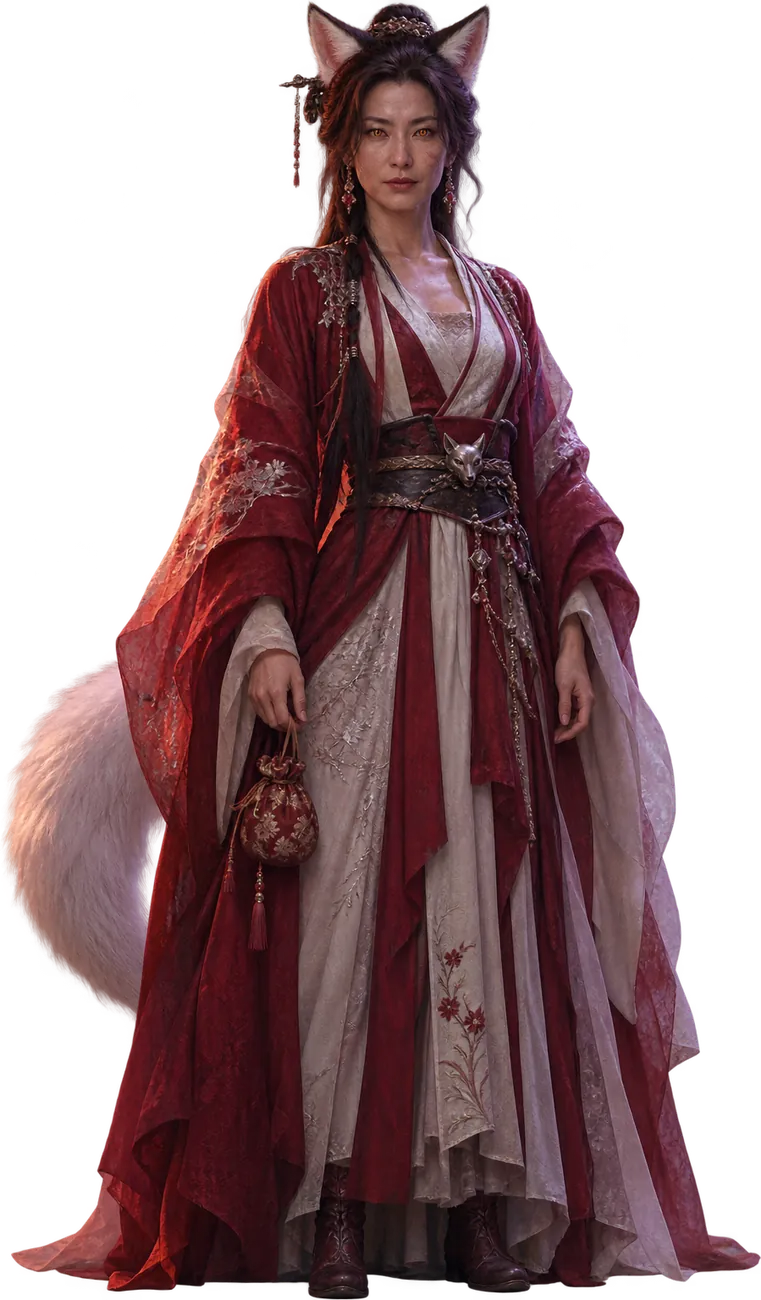
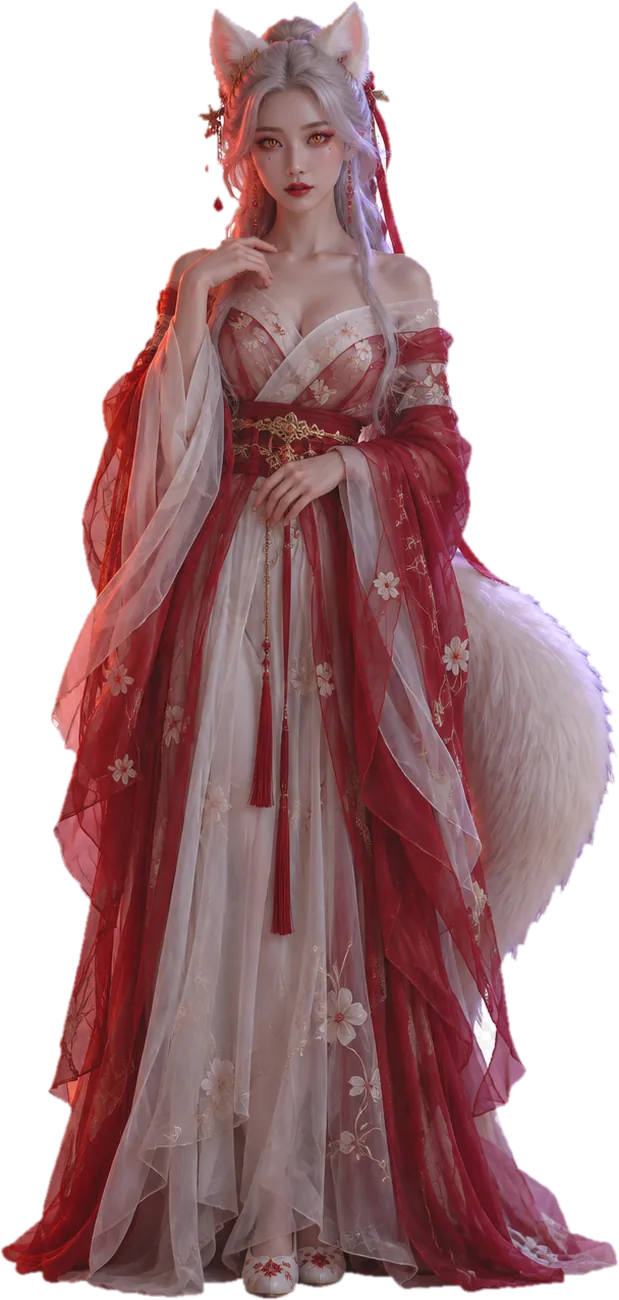
重画狐妖第二张面孔 yao_fox_f1：年轻、勾人，照小说里的狐妖
原图套用了替换面孔的通用说明（明显更老 35–45 岁、饱经风霜、胡茬或伤疤），
狐妖画成了中年妇人。妖修驻颜有术，该看上去年轻。

- specs.py：FACE_OVERRIDE 给 yao_fox_f1 单写一条：二十出头的成年女子，银白长发，
  眼尾上挑、红唇，罗衫半落香肩，雅致不露骨；银发与白绡、yao_fox_f2 的黑发区分开
- 重画底图与六种神态共 7 张（神态以底图为参考改图，保持同一人）
- 用这张脸的：白绡的姐姐青绡（剧情），以及一部分路人狐妖

diff --git a/tools/art/specs.py b/tools/art/specs.py
@@ -180,6 +180,12 @@ FACE_OVERRIDE = {
     'ren_kid_f1': 'cast a different teenage boy actor (about 15) for the same servant role: thinner, shaved head with a cloth headband, freckles, different pose',
     'ren_kid_f2': 'cast a different teenage boy actor (about 13) for the same servant role: chubby round face, messy topknot, different pose',
     'noble_f2': 'cast an actress instead: an arrogant young noblewoman of the demonic sect, contemptuous half-lidded eyes, chin raised, ornate dark purple and gold robes, jade-and-gold hair ornaments, holding a round silk fan',
+    # 妖修驻颜有术，看上去总是年轻；狐妖照小说里的样子画，勾人但不露骨
+    'yao_fox_f1': 'cast a different young actress for the same fox demon: an adult woman who looks about 22, the bewitching alluring beauty of a fox spirit from xianxia novels, '
+                  'flawless luminous porcelain skin, captivating upturned fox eyes with red eyeliner at the outer corners, a small beauty mark under one eye, red lips, '
+                  'long flowing silver-white hair loosely tied with red silk ribbons, white fox ears, a fluffy white fox tail, graceful slender figure, '
+                  'layered sheer red and white silk robes worn slightly off the shoulders, elegant and tasteful, not explicit, '
+                  'a relaxed charming pose with one hand lightly raised near the collar',
 }
 
 MOODS = {
